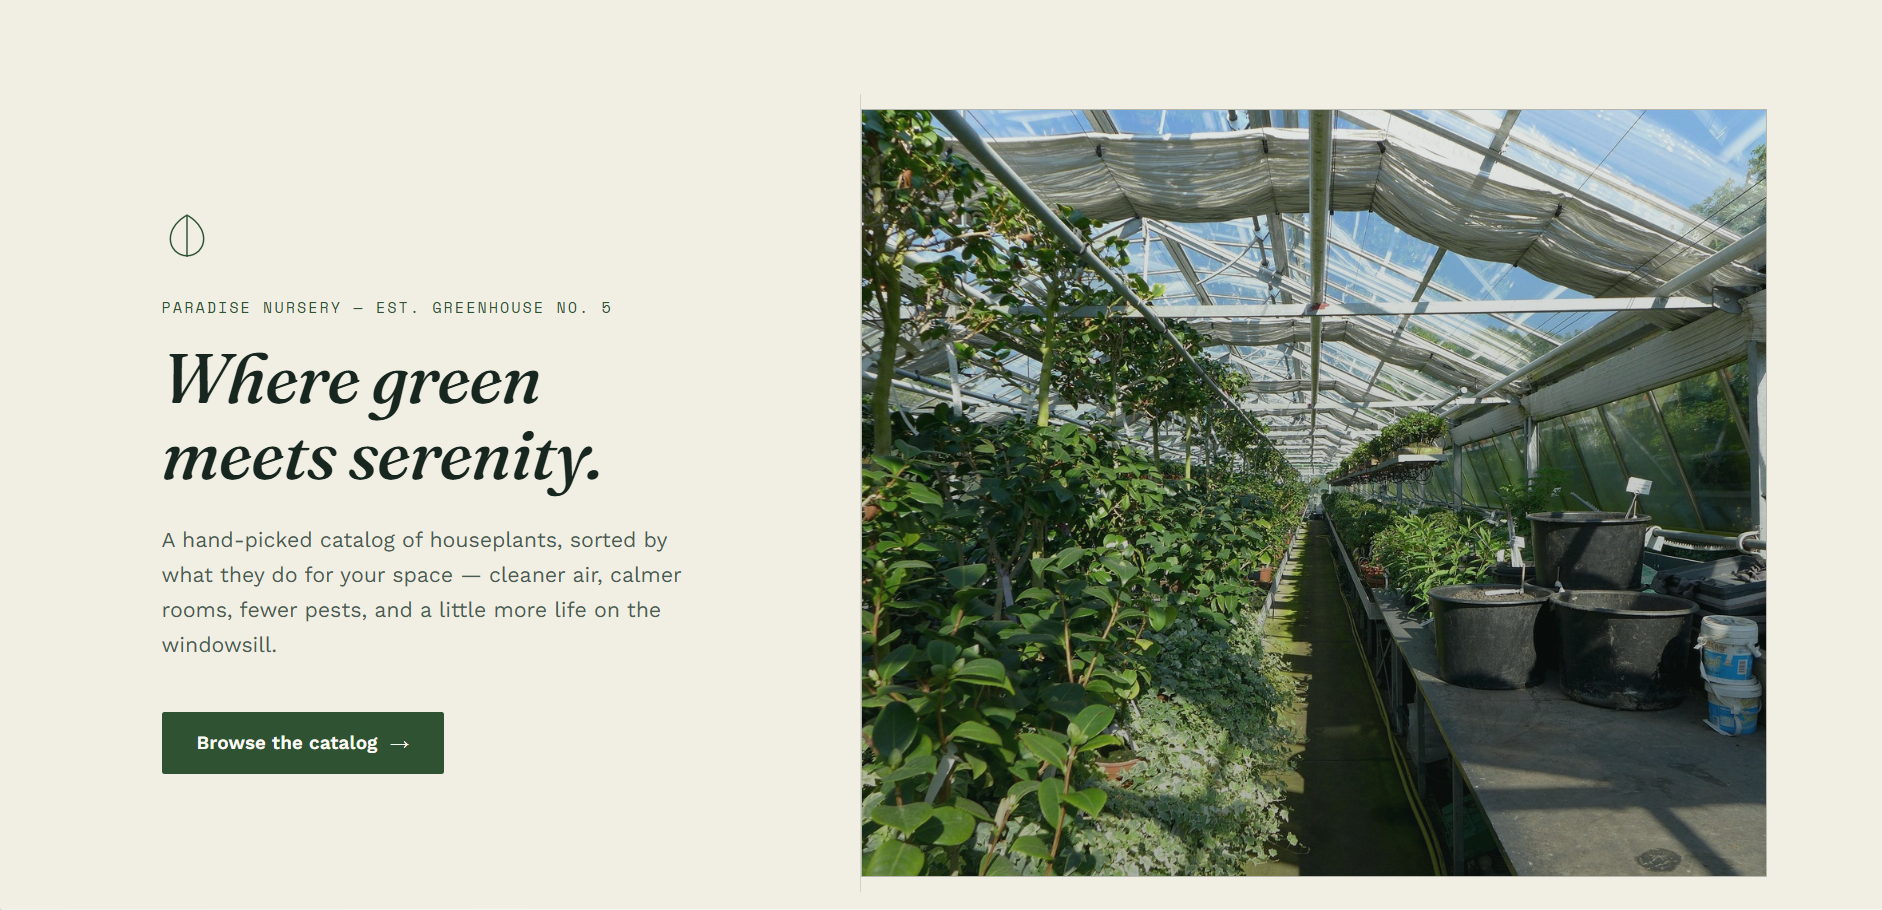
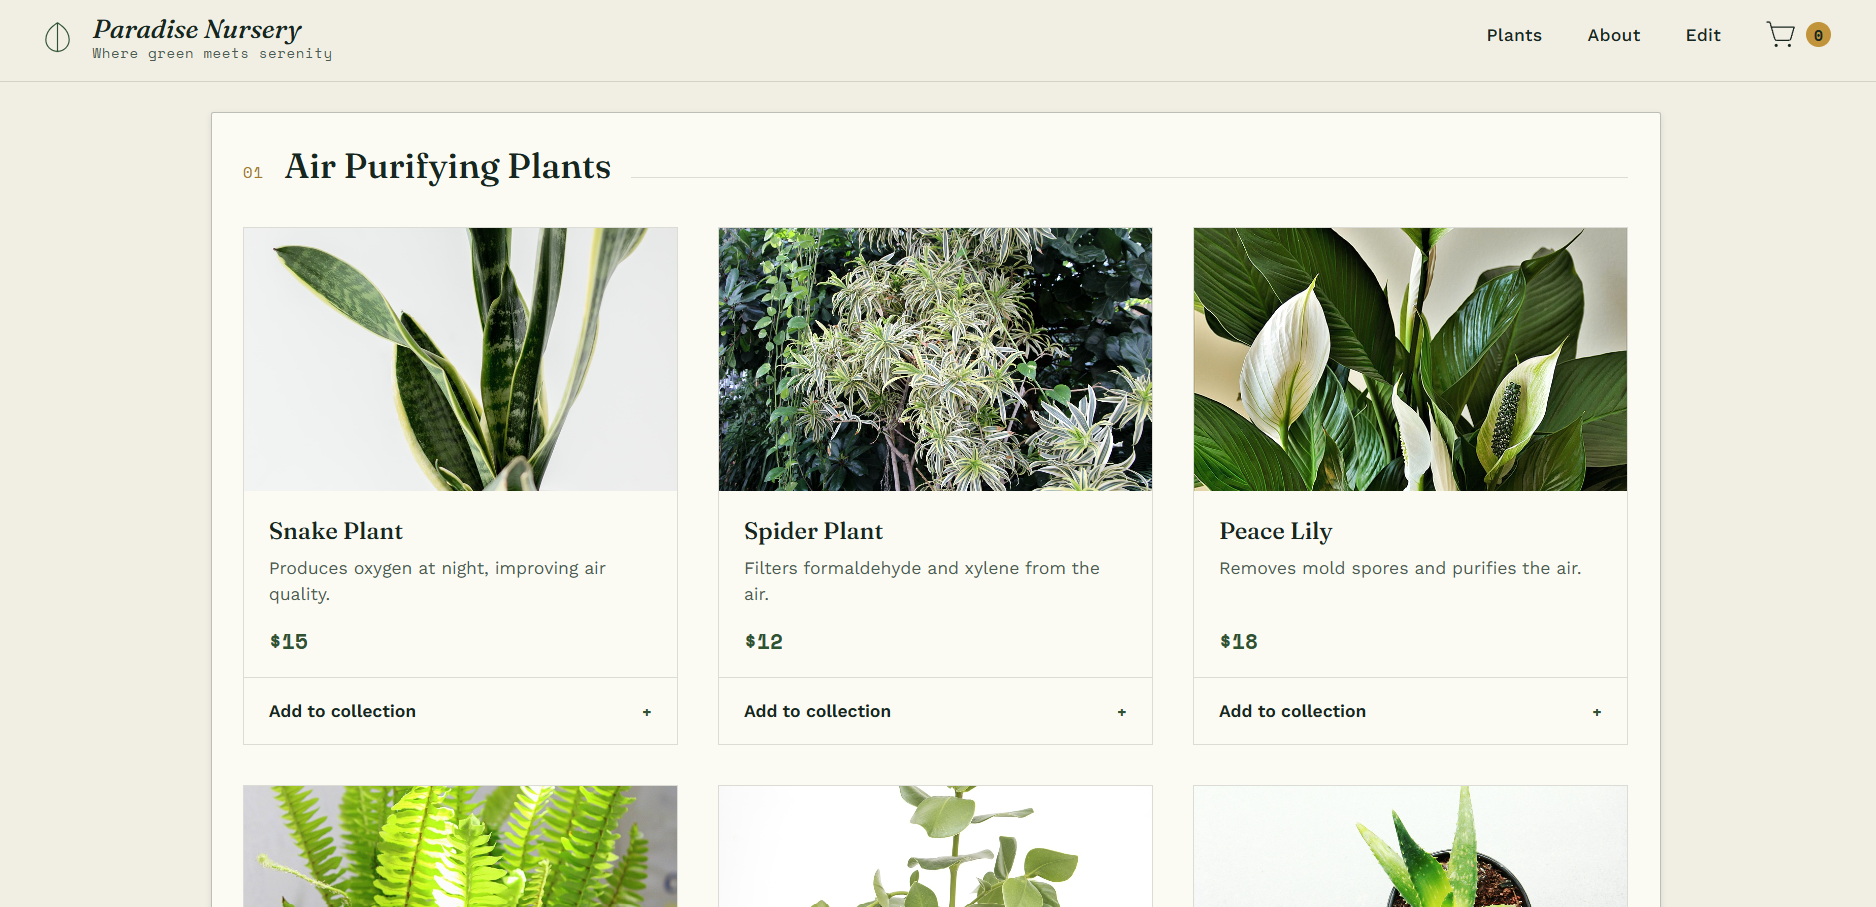
Mon, Aug 10, 2026, 12:26 PM +01:00

diff --git a/src/components/HeroSection.jsx b/src/components/HeroSection.jsx
@@ -20,7 +20,7 @@ export const HeroSection = () => {
         >
           <Terminal size={13} className="text-neon" />
           <span className="text-xs font-mono-alt tracking-wide text-foreground/80">
-            Full Stack Developer · Back-End Developer
+            Software Engineer
           </span>
         </motion.div>
 
@@ -43,7 +43,7 @@ export const HeroSection = () => {
           transition={{ duration: 0.6, delay: 0.2, ease: [0.16, 1, 0.3, 1] }}
           className="text-lg text-muted-foreground max-w-xl mx-auto mb-10"
         >
-          I turn ideas into working products — and I'm just getting started.
+          I turn ideas into working products — and I build fast, clean, and scalable web applications.
         </motion.p>
 
         <motion.div

diff --git a/src/components/ProjectsSection.jsx b/src/components/ProjectsSection.jsx
@@ -16,7 +16,7 @@ const projects = [
     title: "Paradise Nursery",
     description: "E-commerce app for online plant shopping with real-time cart management.",
     url: "youssefwerrad.github.io/e-plantShopping",
-    image: { src: BASE + "screenshots/plant_landing.webp", alt: "Paradise Nursery landing" },
+    image: { src: BASE + "screenshots/plant_landing.png", alt: "Paradise Nursery landing" },
     href: "https://youssefwerrad.github.io/e-plantShopping/",
   },
   {

diff --git a/src/components/Footer.jsx b/src/components/Footer.jsx
@@ -3,7 +3,7 @@ export const Footer = () => {
     <footer className="border-t border-border py-8 px-6">
       <div className="container mx-auto max-w-5xl flex flex-col sm:flex-row items-center justify-between gap-4">
         <p className="text-sm text-muted-foreground">
-          © {new Date().getFullYear()} Youssef Werrad. 
+          © {new Date().getFullYear()} Youssef Werrad. All rights reserved.
         </p>
         <a
           href="#"

diff --git a/src/components/Navbar.jsx b/src/components/Navbar.jsx
@@ -2,9 +2,9 @@ import { useState, useEffect } from "react";
 import { Menu, X, Moon, Sun } from "lucide-react";
 
 const navLinks = [
-  { label: "Projects", href: "#projects" },
-  { label: "Skills", href: "#skills" },
   { label: "About", href: "#about" },
+  { label: "Skills", href: "#skills" },
+  { label: "Projects", href: "#projects" },
   { label: "Contact", href: "#contact" },
 ];
 

diff --git a/src/pages/Index.jsx b/src/pages/Index.jsx
@@ -12,9 +12,9 @@ const Index = () => {
       <Navbar />
       <main>
         <HeroSection />
-        <ProjectsSection />
-        <SkillsSection />
         <AboutSection />
+        <SkillsSection />
+        <ProjectsSection />
         <ContactSection />
       </main>
       <Footer />
